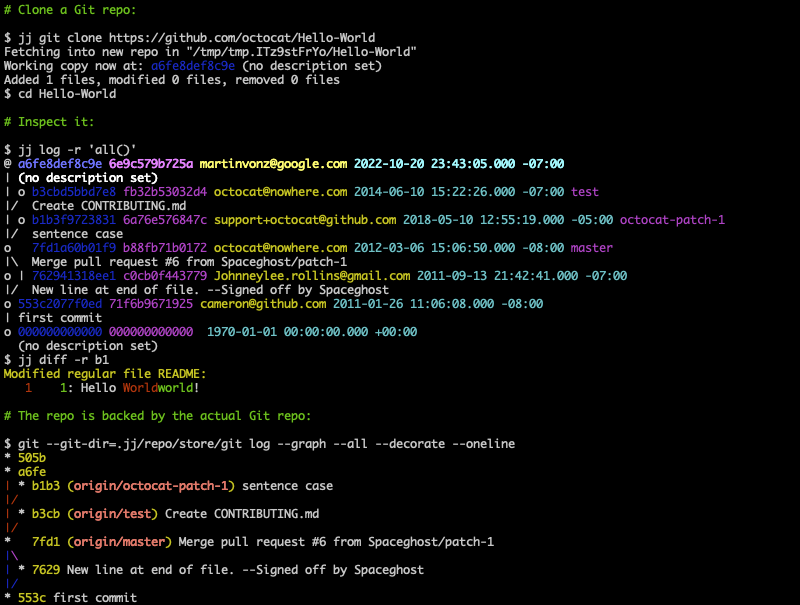
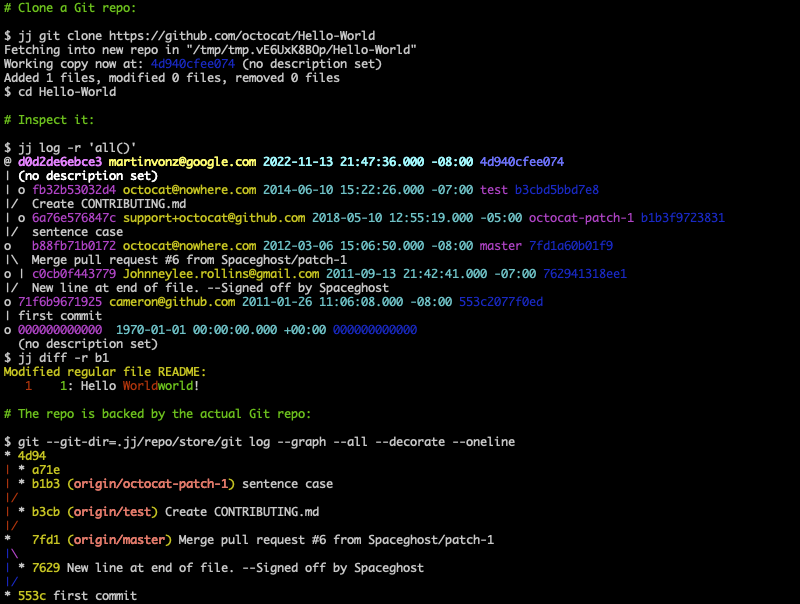
log: move commit ID off to the right
We have talked about showing the commit ID only for divergent changes
because it's generally easier to work with the change ID, and it's
less likely to result in a divergent change. However, it's useful to
have the commit ID available for pasting into e.g. a commit message or
the GitHub UI. To try to steer users towards using the change ID, this
commit moves the commit ID off to the right in the log output.

I put it just after the "divergent" field, because that makes it close
to how I imagine it would look if we decided to hide the commit ID
except for divergent changes. I was thinking that could be rendered as
"divergent (abc123)". So if we add config to hide the commit ID, then
it would be rendered almost the same for divergent commits (just with
the added parentheses). It would also make sense to replace the
"divergent" field by a question mark on the change ID, since change
IDs basically behave like branches. If we do that, then the placement
of the commit ID I picked in this commit does not make sense.

Changed region(s): [[0.0, 0.2384, 0.9062, 0.9536], [0.0, 0.0, 0.5312, 0.2086], [0.0, 0.9536, 0.1875, 1.0]]

diff --git a/jj/tests/test_obslog_command.rs b/jj/tests/test_obslog_command.rs
@@ -34,13 +34,13 @@ fn test_obslog_with_or_without_diff() {
 
     let stdout = get_log_output(&test_env, &repo_path, &["obslog"]);
     insta::assert_snapshot!(stdout, @r###"
-    @ 1daafc17fefb test.user@example.com 2001-02-03 04:05:08.000 +07:00
+    @  test.user@example.com 2001-02-03 04:05:08.000 +07:00 1daafc17fefb
     | my description
-    o 813918f7b4e6 test.user@example.com 2001-02-03 04:05:08.000 +07:00 conflict
+    o  test.user@example.com 2001-02-03 04:05:08.000 +07:00 813918f7b4e6 conflict
     | my description
-    o 8f02f5470c55 test.user@example.com 2001-02-03 04:05:08.000 +07:00
+    o  test.user@example.com 2001-02-03 04:05:08.000 +07:00 8f02f5470c55
     | my description
-    o c8ceb219336b test.user@example.com 2001-02-03 04:05:08.000 +07:00
+    o  test.user@example.com 2001-02-03 04:05:08.000 +07:00 c8ceb219336b
       my description
     "###);
 
@@ -48,43 +48,43 @@ fn test_obslog_with_or_without_diff() {
     // (even even though it resulted in a conflict).
     let stdout = get_log_output(&test_env, &repo_path, &["obslog", "-p"]);
     insta::assert_snapshot!(stdout, @r###"
-    @ 1daafc17fefb test.user@example.com 2001-02-03 04:05:08.000 +07:00
+    @  test.user@example.com 2001-02-03 04:05:08.000 +07:00 1daafc17fefb
     | my description
     | Resolved conflict in file1:
     |    1    1: <<<<<<<resolved
     |    2     : %%%%%%%
     |    3     : +bar
     |    4     : >>>>>>>
-    o 813918f7b4e6 test.user@example.com 2001-02-03 04:05:08.000 +07:00 conflict
+    o  test.user@example.com 2001-02-03 04:05:08.000 +07:00 813918f7b4e6 conflict
     | my description
-    o 8f02f5470c55 test.user@example.com 2001-02-03 04:05:08.000 +07:00
+    o  test.user@example.com 2001-02-03 04:05:08.000 +07:00 8f02f5470c55
     | my description
     | Modified regular file file1:
     |    1    1: foo
     |         2: bar
     | Added regular file file2:
     |         1: foo
-    o c8ceb219336b test.user@example.com 2001-02-03 04:05:08.000 +07:00
+    o  test.user@example.com 2001-02-03 04:05:08.000 +07:00 c8ceb219336b
       my description
     "###);
 
     // Test `--no-graph`
     let stdout = get_log_output(&test_env, &repo_path, &["obslog", "--no-graph"]);
     insta::assert_snapshot!(stdout, @r###"
-    1daafc17fefb test.user@example.com 2001-02-03 04:05:08.000 +07:00
+     test.user@example.com 2001-02-03 04:05:08.000 +07:00 1daafc17fefb
     my description
-    813918f7b4e6 test.user@example.com 2001-02-03 04:05:08.000 +07:00 conflict
+     test.user@example.com 2001-02-03 04:05:08.000 +07:00 813918f7b4e6 conflict
     my description
-    8f02f5470c55 test.user@example.com 2001-02-03 04:05:08.000 +07:00
+     test.user@example.com 2001-02-03 04:05:08.000 +07:00 8f02f5470c55
     my description
-    c8ceb219336b test.user@example.com 2001-02-03 04:05:08.000 +07:00
+     test.user@example.com 2001-02-03 04:05:08.000 +07:00 c8ceb219336b
     my description
     "###);
 
     // Test `--git` format, and that it implies `-p`
     let stdout = get_log_output(&test_env, &repo_path, &["obslog", "--no-graph", "--git"]);
     insta::assert_snapshot!(stdout, @r###"
-    1daafc17fefb test.user@example.com 2001-02-03 04:05:08.000 +07:00
+     test.user@example.com 2001-02-03 04:05:08.000 +07:00 1daafc17fefb
     my description
     diff --git a/file1 b/file1
     index e155302a24...2ab19ae607 100644
@@ -96,9 +96,9 @@ fn test_obslog_with_or_without_diff() {
     -+bar
     ->>>>>>>
     +resolved
-    813918f7b4e6 test.user@example.com 2001-02-03 04:05:08.000 +07:00 conflict
+     test.user@example.com 2001-02-03 04:05:08.000 +07:00 813918f7b4e6 conflict
     my description
-    8f02f5470c55 test.user@example.com 2001-02-03 04:05:08.000 +07:00
+     test.user@example.com 2001-02-03 04:05:08.000 +07:00 8f02f5470c55
     my description
     diff --git a/file1 b/file1
     index 257cc5642c...3bd1f0e297 100644
@@ -114,7 +114,7 @@ fn test_obslog_with_or_without_diff() {
     +++ b/file2
     @@ -1,0 +1,1 @@
     +foo
-    c8ceb219336b test.user@example.com 2001-02-03 04:05:08.000 +07:00
+     test.user@example.com 2001-02-03 04:05:08.000 +07:00 c8ceb219336b
     my description
     "###);
 }
@@ -136,36 +136,36 @@ fn test_obslog_squash() {
 
     let stdout = get_log_output(&test_env, &repo_path, &["obslog", "-p", "-r", "@-"]);
     insta::assert_snapshot!(stdout, @r###"
-    o   9b6d4a272a6a test.user@example.com 2001-02-03 04:05:07.000 +07:00
+    o    test.user@example.com 2001-02-03 04:05:07.000 +07:00 9b6d4a272a6a
     |\  squashed
     | | Modified regular file file1:
     | |    1    1: foo
     | |         2: bar
-    o | 803a7299cb1a test.user@example.com 2001-02-03 04:05:07.000 +07:00
+    o |  test.user@example.com 2001-02-03 04:05:07.000 +07:00 803a7299cb1a
     | | first
     | | Added regular file file1:
     | |         1: foo
-    o | 85a1e2839620 test.user@example.com 2001-02-03 04:05:07.000 +07:00
+    o |  test.user@example.com 2001-02-03 04:05:07.000 +07:00 85a1e2839620
     | | first
-    o | 230dd059e1b0 test.user@example.com 2001-02-03 04:05:07.000 +07:00
+    o |  test.user@example.com 2001-02-03 04:05:07.000 +07:00 230dd059e1b0
      /  (no description set)
-    o 69231a40d60d test.user@example.com 2001-02-03 04:05:09.000 +07:00
+    o  test.user@example.com 2001-02-03 04:05:09.000 +07:00 69231a40d60d
     | second
     | Modified regular file file1:
     |    1    1: foo
     |         2: bar
-    o b567edda97ab test.user@example.com 2001-02-03 04:05:09.000 +07:00
+    o  test.user@example.com 2001-02-03 04:05:09.000 +07:00 b567edda97ab
       second
     "###);
 }
 
 fn get_log_output(test_env: &TestEnvironment, repo_path: &Path, args: &[&str]) -> String {
     // Filter out the change ID since it's random
-    let regex = Regex::new("^([o@| ]+)?([0-9a-f]{12}) ([0-9a-f]{12}) ").unwrap();
+    let regex = Regex::new("^([o@| ]+)?([0-9a-f]{12})").unwrap();
     let mut lines = vec![];
     let stdout = test_env.jj_cmd_success(repo_path, args);
     for line in stdout.split_inclusive('\n') {
-        lines.push(regex.replace(line, "$1$2 "));
+        lines.push(regex.replace(line, "$1"));
     }
     lines.join("")
 }

diff --git a/jj/tests/test_init_command.rs b/jj/tests/test_init_command.rs
@@ -107,7 +107,7 @@ fn test_init_git_external() {
     // Check that the Git repo's HEAD got checked out
     let stdout = test_env.jj_cmd_success(&repo_path, &["log", "-r", "@-"]);
     insta::assert_snapshot!(stdout, @r###"
-    o 8d698d4a8ee1 d3866db7e30a git.user@example.com 1970-01-01 01:02:03.000 +01:00 my-branch HEAD@git
+    o d3866db7e30a git.user@example.com 1970-01-01 01:02:03.000 +01:00 my-branch HEAD@git 8d698d4a8ee1
     ~ My commit message
     "###);
 }
@@ -150,7 +150,7 @@ fn test_init_git_colocated() {
     // Check that the Git repo's HEAD got checked out
     let stdout = test_env.jj_cmd_success(&repo_path, &["log", "-r", "@-"]);
     insta::assert_snapshot!(stdout, @r###"
-    o 8d698d4a8ee1 d3866db7e30a git.user@example.com 1970-01-01 01:02:03.000 +01:00 my-branch HEAD@git
+    o d3866db7e30a git.user@example.com 1970-01-01 01:02:03.000 +01:00 my-branch HEAD@git 8d698d4a8ee1
     ~ My commit message
     "###);
 }

diff --git a/jj/src/commands.rs b/jj/src/commands.rs
@@ -1994,8 +1994,7 @@ fn log_template(settings: &UserSettings) -> String {
     // TODO: define a method on boolean values, so we can get auto-coloring
     //       with e.g. `conflict.then("conflict")`
     let default_template = r#"
-            commit_id.short()
-            " " change_id.short()
+            change_id.short()
             " " author.email()
             " " label("timestamp", author.timestamp())
             if(branches, " " branches)
@@ -2003,6 +2002,7 @@ fn log_template(settings: &UserSettings) -> String {
             if(working_copies, " " working_copies)
             if(is_git_head, label("git_head", " HEAD@git"))
             if(divergent, label("divergent", " divergent"))
+            " " commit_id.short()
             if(conflict, label("conflict", " conflict"))
             "\n"
             description.first_line()

diff --git a/jj/tests/test_alias.rs b/jj/tests/test_alias.rs
@@ -64,7 +64,7 @@ fn test_alias_cannot_override_builtin() {
     // Alias should be ignored
     let stdout = test_env.jj_cmd_success(&repo_path, &["log", "-r", "root"]);
     insta::assert_snapshot!(stdout, @r###"
-    o 000000000000 000000000000  1970-01-01 00:00:00.000 +00:00
+    o 000000000000  1970-01-01 00:00:00.000 +00:00 000000000000
       (no description set)
     "###);
 }

diff --git a/jj/docs/tutorial.md b/jj/docs/tutorial.md
@@ -127,19 +127,20 @@ You're probably familiar with `git log`. Jujutsu has very similar functionality
 in its `jj log` command:
 ```shell script
 $ jj log
-@ 192b456b024b f39aeb1a0200 martinvonz@google.com 2021-05-23 23:10:27.000 -07:00
+@ f39aeb1a0200 martinvonz@google.com 2021-05-23 23:10:27.000 -07:00 192b456b024b
 | (no description set)
-o fb563a4c6d26 f63e76f175b9 martinvonz@google.com 2021-05-23 22:13:45.000 -07:00
+o f63e76f175b9 martinvonz@google.com 2021-05-23 22:13:45.000 -07:00 fb563a4c6d26
 | Jujutsu is ready!
-o 080a9b37ff7e 6a91b4ba16c7 martinvonz@google.com 2021-05-23 22:08:37.000 -07:00 main
+o 6a91b4ba16c7 martinvonz@google.com 2021-05-23 22:08:37.000 -07:00 main 080a9b37ff7e
 ~ cli: make `jj st` show parent commit before working copy commit
 ```
 
 The `@` indicates the working-copy commit. The first hash on a line is the
-commit ID. The second hash is a "change ID", which is an ID that follows the
-commit as it's rewritten (similar to Gerrit's Change-Id). You can give either
-hash to commands that take revisions as arguments. We will generally prefer
-change IDs because they stay the same when the commit is rewritten.
+"change ID", which is an ID that follows the commit as it's rewritten (similar
+to Gerrit's Change-Id). The second hash is the commit ID, which changes when you
+rewrite the commit. You can give either hash to commands that take revisions as
+arguments. We will generally prefer change IDs because they stay the same when
+the commit is rewritten.
 
 By default, `jj log` list your local commits, with some remote commits added for
 context.  The `~` indicates that the commit has parents that are not included
@@ -151,11 +152,11 @@ all commits pointed to by branches. We can combine expressions with `|` for
 union, `&` for intersection and `~` for difference. For example:
 ```shell script
 $ jj log -r '@ | root | branches()'
-@ 192b456b024b f39aeb1a0200 martinvonz@google.com 2021-05-23 23:10:27.000 -07:00
+@ f39aeb1a0200 martinvonz@google.com 2021-05-23 23:10:27.000 -07:00 192b456b024b
 : (no description set)
-o 080a9b37ff7e 6a91b4ba16c7 martinvonz@google.com 2021-05-23 22:08:37.000 -07:00 main
+o 6a91b4ba16c7 martinvonz@google.com 2021-05-23 22:08:37.000 -07:00 main 080a9b37ff7e
 : cli: make `jj st` show parent commit before working copy commit
-o 000000000000 000000000000 1970-01-01 00:00:00.000 +00:00
+o 000000000000  1970-01-01 00:00:00.000 +00:00 000000000000
   (no description set)
 ```
 
@@ -184,13 +185,13 @@ Working copy now at: fd571967346e B2
 $ jj new -m C; echo c > file2
 Working copy now at: 4ae1e0587eef C
 $ jj log
-@ 1769bdaa8d6d 8e6178b84ffb martinvonz@google.com 2021-05-26 12:39:35.000 -07:00
+@ 8e6178b84ffb martinvonz@google.com 2021-05-26 12:39:35.000 -07:00 1769bdaa8d6d
 | C
-o de5690380f40 5548374c0794 martinvonz@google.com 2021-05-26 12:39:30.000 -07:00
+o 5548374c0794 martinvonz@google.com 2021-05-26 12:39:30.000 -07:00 de5690380f40
 | B2
-o 47e336632333 ce619d39bd96 martinvonz@google.com 2021-05-26 12:39:20.000 -07:00
+o ce619d39bd96 martinvonz@google.com 2021-05-26 12:39:20.000 -07:00 47e336632333
 | B1
-o 661432c51c08 cf49e6bec410 martinvonz@google.com 2021-05-26 12:39:12.000 -07:00
+o cf49e6bec410 martinvonz@google.com 2021-05-26 12:39:12.000 -07:00 661432c51c08
 ~ A
 ```
 
@@ -202,13 +203,13 @@ Rebased 2 commits
 Working copy now at: 9195b6d2e8dc C
 Added 0 files, modified 1 files, removed 0 files
 $ jj log
-@ 66274d5a7d2d 8e6178b84ffb martinvonz@google.com 2021-05-26 12:39:35.000 -07:00 conflict
+@ 8e6178b84ffb martinvonz@google.com 2021-05-26 12:39:35.000 -07:00 66274d5a7d2d conflict
 | C
-o 0c305a9e6b27 5548374c0794 martinvonz@google.com 2021-05-26 12:39:30.000 -07:00 conflict
+o 5548374c0794 martinvonz@google.com 2021-05-26 12:39:30.000 -07:00 0c305a9e6b27 conflict
 | B2
-| o 47e336632333 ce619d39bd96 martinvonz@google.com 2021-05-26 12:39:20.000 -07:00
+| o ce619d39bd96 martinvonz@google.com 2021-05-26 12:39:20.000 -07:00 47e336632333
 |/  B1
-o 661432c51c08 cf49e6bec410 martinvonz@google.com 2021-05-26 12:39:12.000 -07:00
+o cf49e6bec410 martinvonz@google.com 2021-05-26 12:39:12.000 -07:00 661432c51c08
 ~ A
 ```
 
@@ -246,15 +247,15 @@ $ jj squash
 Rebased 1 descendant commits
 Working copy now at: e659edc4a9fc (no description set)
 $ jj log
-@ e659edc4a9fc 461f38324592 martinvonz@google.com 2021-05-26 12:53:08.000 -07:00
+@ 461f38324592 martinvonz@google.com 2021-05-26 12:53:08.000 -07:00 e659edc4a9fc
 | (no description set)
-| o 69dbcf76642a 8e6178b84ffb martinvonz@google.com 2021-05-26 12:39:35.000 -07:00
+| o 8e6178b84ffb martinvonz@google.com 2021-05-26 12:39:35.000 -07:00 69dbcf76642a
 |/  C
-o 576d647acf36 5548374c0794 martinvonz@google.com 2021-05-26 12:39:30.000 -07:00
+o 5548374c0794 martinvonz@google.com 2021-05-26 12:39:30.000 -07:00 576d647acf36
 | B2
-| o 47e336632333 ce619d39bd96 martinvonz@google.com 2021-05-26 12:39:20.000 -07:00
+| o ce619d39bd96 martinvonz@google.com 2021-05-26 12:39:20.000 -07:00 47e336632333
 |/  B1
-o 661432c51c08 cf49e6bec410 martinvonz@google.com 2021-05-26 12:39:12.000 -07:00
+o cf49e6bec410 martinvonz@google.com 2021-05-26 12:39:12.000 -07:00 661432c51c08
 ~ A
 ```
 
@@ -292,15 +293,15 @@ an operation. By default, it will undo the most recent operation. Let's try it:
 $ jj undo
 Working copy now at: 41f0d2289b56
 $ jj log
-@ 41f0d2289b56 b1e3a4afde5e martinvonz@google.com 2021-05-26 12:52:39.000 -07:00
+@ b1e3a4afde5e martinvonz@google.com 2021-05-26 12:52:39.000 -07:00 41f0d2289b56
 | (no description set)
-| o 66274d5a7d2d 8e6178b84ffb martinvonz@google.com 2021-05-26 12:39:35.000 -07:00 conflict
+| o 8e6178b84ffb martinvonz@google.com 2021-05-26 12:39:35.000 -07:00 66274d5a7d2d conflict
 |/  C
-o 0c305a9e6b27 5548374c0794 martinvonz@google.com 2021-05-26 12:39:30.000 -07:00 conflict
+o 5548374c0794 martinvonz@google.com 2021-05-26 12:39:30.000 -07:00 0c305a9e6b27 conflict
 | B2
-| o 47e336632333 ce619d39bd96 martinvonz@google.com 2021-05-26 12:39:20.000 -07:00
+| o ce619d39bd96 martinvonz@google.com 2021-05-26 12:39:20.000 -07:00 47e336632333
 |/  B1
-o 661432c51c08 cf49e6bec410 martinvonz@google.com 2021-05-26 12:39:12.000 -07:00
+o cf49e6bec410 martinvonz@google.com 2021-05-26 12:39:12.000 -07:00 661432c51c08
 ~ A
 ```
 As you can perhaps see, that undid the `jj squash` invocation we used for
@@ -333,11 +334,11 @@ Working copy now at: 9d97c5018b23 ABC
 $ jj new -m ABCD; printf 'A\nB\nC\nD\n' > file
 Working copy now at: c5a985bc3f41 ABCD
 $ jj log
-@ 687009839bae 874f2d307594 martinvonz@google.com 2021-05-26 14:36:38.000 -07:00 
+@ 874f2d307594 martinvonz@google.com 2021-05-26 14:36:38.000 -07:00 687009839bae 
 | ABCD
-o ad9b1ce3b5d0 2bbc0c1eb382 martinvonz@google.com 2021-05-26 14:36:26.000 -07:00 
+o 2bbc0c1eb382 martinvonz@google.com 2021-05-26 14:36:26.000 -07:00 ad9b1ce3b5d0 
 | ABC
-o a355fb177b21 3680117711f5 martinvonz@google.com 2021-05-26 14:36:05.000 -07:00 
+o 3680117711f5 martinvonz@google.com 2021-05-26 14:36:05.000 -07:00 a355fb177b21 
 ~ abc
 ```
 

diff --git a/jj/CHANGELOG.md b/jj/CHANGELOG.md
@@ -49,6 +49,11 @@ and this project adheres to [Semantic Versioning](https://semver.org/spec/v2.0.0
 * (#254) Branches that have a different target on some remote than they do
   locally are now indicated by an asterisk suffix (e.g. `main*`) in `jj log`.
 
+* The commit ID was moved from first on the line in `jj log` output to close to
+  the end. The goal is to encourage users to use the change ID instead, since
+  that is generally more convenient, and it reduces the risk of creating
+  divergent commits.
+
 ### Fixed bugs
 
 * (#463) A bug in the export of branches to Git caused spurious conflicted
